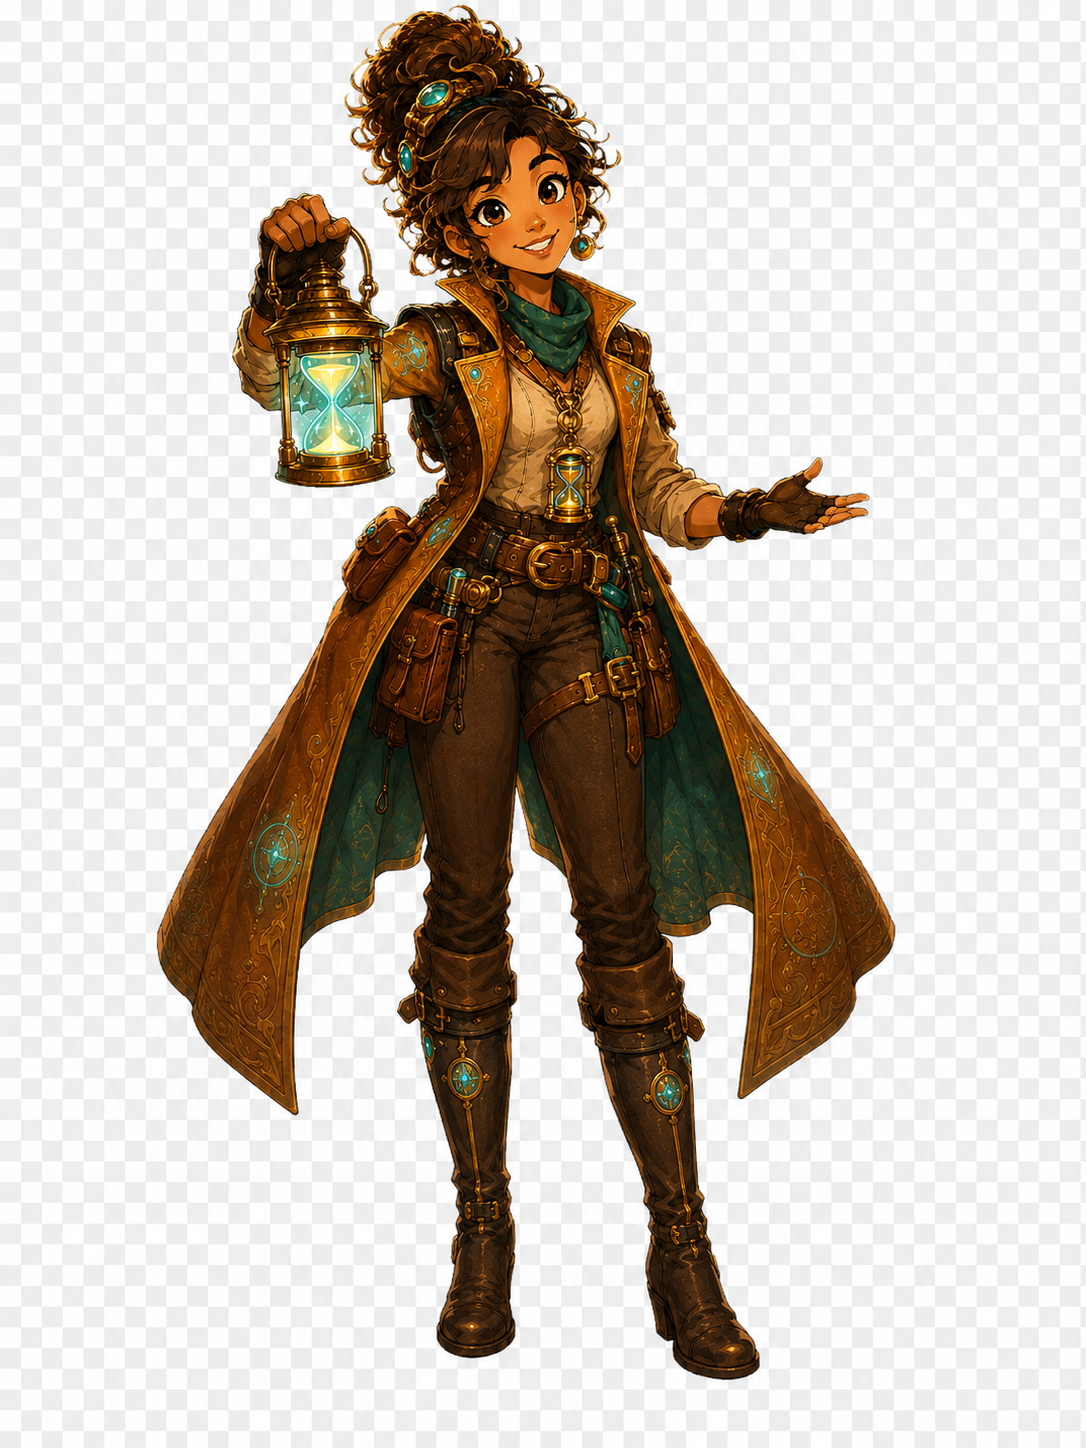
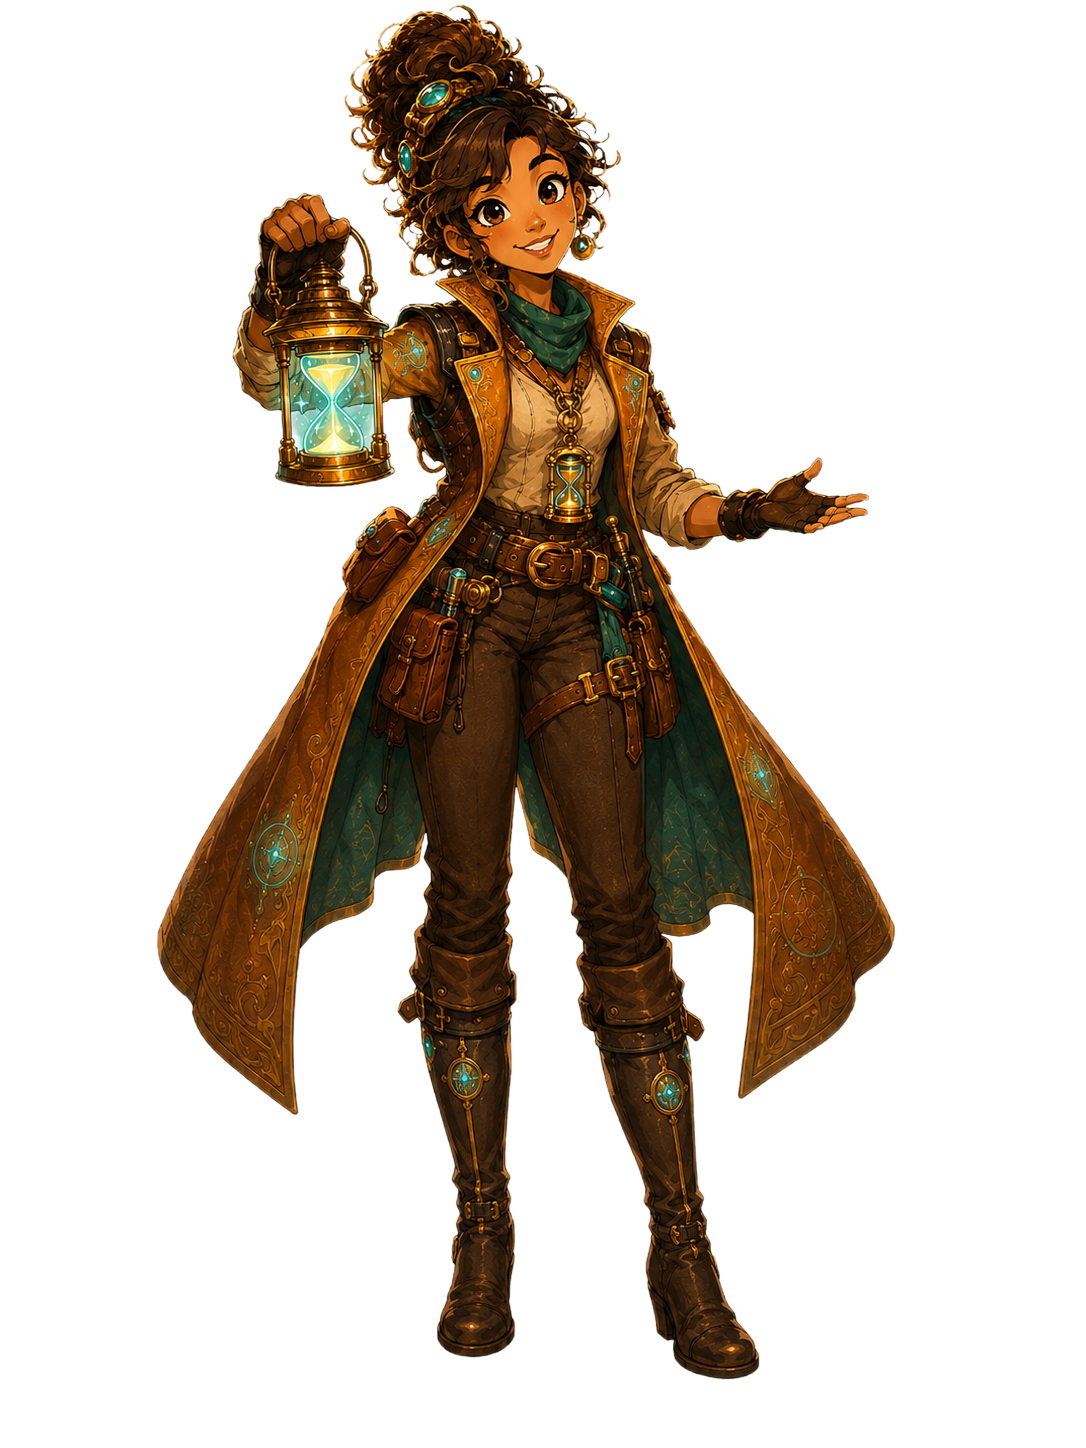
Update with clean transparent image

diff --git a/index.html b/index.html
@@ -92,7 +92,7 @@
 </head>
 <body>
   <header>
-    <img src="assets/shinyecho-full.png" alt="ShinyEcho" style="max-width:300px;display:block;margin:0 auto 20px;background:#111;padding:20px;border-radius:20px;">
+    <img src="assets/shinyecho-full.png" alt="ShinyEcho" style="max-width:300px;display:block;margin:0 auto 20px;">
     <h1>⚓ ShinyEcho</h1>
     <p>Harbor Pilot • Signal Guide • Chat Companion</p>
   </header>
